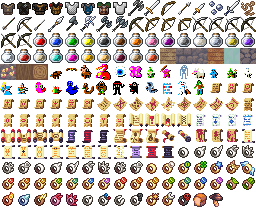
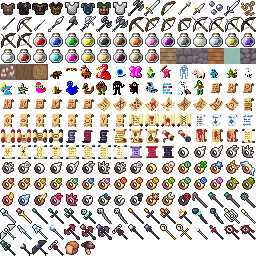
Wands are folded into staffs: every stick is a staff of a wood (rogue.Game loses SType and the metals, fixStick gives all the staff's 2d3, Name says staff), and the staffs draw their looks from the RPG Items 16x16 Pack 1 staves (40 sprites in assets/staffs with SOURCE.txt; mktiles.py writes assets/t

diff --git a/assets/tiles/mktiles.py b/assets/tiles/mktiles.py
@@ -4,12 +4,13 @@ rec files that say which cell each game id uses. The sheets hold only
 what the game draws; ids are the game's own names (a potion by its
 colour, a scroll or ring by its look, a wall by where it stands):
 
-  tiles8.png   items.rec     %rec: item    wands, gold, the Amulet (written whole)
+  tiles8.png   items.rec     %rec: item    gold, the Amulet (written whole)
   tiles16.png  gear.rec      %rec: gear    the armour: hand-written records, each naming its picture
                potions.rec   %rec: potion  Rogue's potion colours: hand-written, each an rgb tinting the potion sprite
                food.rec      %rec: food    the food ration (bread) and the slime-mold (assets/food)
                scrolls.rec   %rec: scroll  the scroll looks (assets/scrolls, BigWander's Art of Scrolls), a game's scroll kinds draw theirs from them
                rings.rec     %rec: ring    the ring looks (assets/rings), likewise
+               staffs.rec    %rec: staff   the staff looks (assets/staffs, RPG Items 16x16 Pack 1), likewise
                weapons.rec   %rec: weapon  the weapons and their pictures in use (%rec: frame): hand-written, each naming its picture
                textures.rec  %rec: block   the room's and the corridor's floor, wall and ceiling, light, trap, stairs, door frame
                monsters.rec  %rec: monster the 26 monsters (DynaHack, shadows stripped)
@@ -156,8 +157,7 @@ t8 = Sheet('tiles8.png', 8, 16)
 def item(rid, sprite, name=None):
     return (rid, name or rid, t8.add(sprite, rgba(os.path.join(ITEMS, sprite + '.png'))))
 items = []
-items += [item('staff', 'staff_01'), item('wand', 'staff_10'),
-          item('gold', 'valuable_09'), item('amulet of yendor', 'amulet_01', 'the Amulet of Yendor')]
+items += [item('gold', 'valuable_09'), item('amulet of yendor', 'amulet_01', 'the Amulet of Yendor')]
 t8.save()
 t8.rec(os.path.join(HERE, 'items.rec'), 'Items', 'item', items)
 
@@ -200,12 +200,13 @@ def looks(kind):
     d = os.path.join(ROOT, 'assets', kind + 's')
     return [(f'{kind} {i}', f'{kind} (look {i})', t16.add(f'{kind}:' + f, rgba(os.path.join(d, f))))
             for i, f in enumerate(sorted(f for f in os.listdir(d) if f.endswith('.png')), 1)]
-scrolls, rings = looks('scroll'), looks('ring')
+scrolls, rings, staffs = looks('scroll'), looks('ring'), looks('staff')
 FOOD = os.path.join(ROOT, 'assets', 'food')
 food = [(rid, rid, t16.add('f:' + f, rgba(os.path.join(FOOD, f + '.png')))) for rid, f in [('food ration', 'bread'), ('slime-mold', 'slime-mold')]]
 t16.save()
 t16.rec(os.path.join(HERE, 'food.rec'), 'Food', 'food', food)
 t16.rec(os.path.join(HERE, 'scrolls.rec'), 'Scroll looks', 'scroll', scrolls)
 t16.rec(os.path.join(HERE, 'rings.rec'), 'Ring looks', 'ring', rings)
+t16.rec(os.path.join(HERE, 'staffs.rec'), 'Staff looks', 'staff', staffs)
 t16.rec(os.path.join(HERE, 'textures.rec'), 'Block textures', 'block', blocks)
 t16.rec(os.path.join(HERE, 'monsters.rec'), 'Monsters', 'monster', monsters)

diff --git a/rogue/objects.go b/rogue/objects.go
@@ -177,7 +177,6 @@ type Game struct {
 	SNames  [MaxScrolls]string
 	RStones [MaxRings]string
 	SMade   [MaxSticks]string
-	SType   [MaxSticks]string // wand or staff
 	PKnow   [MaxPotions]bool
 	SKnow   [MaxScrolls]bool
 	RKnow   [MaxRings]bool
@@ -187,6 +186,7 @@ type Game struct {
 	PLook       [MaxPotions]int
 	SLook       [MaxScrolls]int
 	RLook       [MaxRings]int
+	StLook      [MaxSticks]int
 	NoFood      int
 	groupSerial int
 }
@@ -207,7 +207,6 @@ var (
 	woods = []string{"avocado wood", "balsa", "banyan", "birch", "cedar", "cherry", "cinnibar", "driftwood",
 		"ebony", "eucalyptus", "hemlock", "ironwood", "mahogany", "manzanita", "maple", "oak", "persimmon wood",
 		"redwood", "rosewood", "teak", "walnut", "zebra wood"}
-	metals = []string{"aluminium", "bone", "brass", "bronze", "copper", "iron", "lead", "pewter", "steel", "tin", "zinc"}
 )
 
 // NewGame rolls the random names for a game (init_colors, init_names,
@@ -245,23 +244,15 @@ func NewGame(rng *rand.Rand) *Game {
 		used[j] = true
 		g.RStones[i], g.RLook[i] = stones[j], looks[i]
 	}
-	usedW, usedM := map[int]bool{}, map[int]bool{}
+	usedW := map[int]bool{}
+	looks = rng.Perm(StaffLooks) // every staff kind its own look this game
 	for i := range g.SMade {
-		if Rnd(rng, 2) == 0 {
-			j := Rnd(rng, len(metals))
-			for usedM[j] && len(usedM) < len(metals) {
-				j = Rnd(rng, len(metals))
-			}
-			usedM[j] = true
-			g.SMade[i], g.SType[i] = metals[j], "wand"
-		} else {
-			j := Rnd(rng, len(woods))
-			for usedW[j] && len(usedW) < len(woods) {
-				j = Rnd(rng, len(woods))
-			}
-			usedW[j] = true
-			g.SMade[i], g.SType[i] = woods[j], "staff"
+		j := Rnd(rng, len(woods))
+		for usedW[j] {
+			j = Rnd(rng, len(woods))
 		}
+		usedW[j] = true
+		g.SMade[i], g.StLook[i] = woods[j], looks[i]
 	}
 	return g
 }
@@ -329,12 +320,10 @@ func (g *Game) NewThing() *Object {
 	return o
 }
 
-// fixStick sets a new wand's or staff's damage and charges (fix_stick).
+// fixStick sets a new staff's damage and charges (fix_stick; every
+// stick is a staff, wands are folded in).
 func (g *Game) fixStick(o *Object) {
-	o.Damage, o.HurlDmg = "1d1", "1d1"
-	if g.SType[o.Which] == "staff" {
-		o.Damage = "2d3"
-	}
+	o.Damage, o.HurlDmg = "2d3", "1d1"
 	o.Charges = 3 + Rnd(g.Rng, 5)
 	switch o.Which {
 	case 1: // striking
@@ -459,9 +448,9 @@ func (g *Game) Name(o *Object) string {
 		return "The Amulet of Yendor"
 	case Stick:
 		if g.WKnow[o.Which] {
-			return fmt.Sprintf("A %s of %s [%d charges](%s)", g.SType[o.Which], StickMagic[o.Which].Name, o.Charges, g.SMade[o.Which])
+			return fmt.Sprintf("A staff of %s [%d charges](%s)", StickMagic[o.Which].Name, o.Charges, g.SMade[o.Which])
 		}
-		return "A" + vowelstr(g.SMade[o.Which]) + " " + g.SMade[o.Which] + " " + g.SType[o.Which]
+		return "A" + vowelstr(g.SMade[o.Which]) + " " + g.SMade[o.Which] + " staff"
 	case Ring:
 		st := g.RStones[o.Which]
 		if g.RKnow[o.Which] {

diff --git a/hud.go b/hud.go
@@ -39,10 +39,10 @@ var helpLines = [][2]string{
 	{"Left mouse", "attack: the weapon's first pattern (sideways);"},
 	{"", "fire a launcher: hold to draw a bow (let go to shoot),"},
 	{"", "whirl the sling, shoot a spanned crossbow"},
-	{"Right mouse", "the weapon's second pattern (overhead); zap held wand;"},
+	{"Right mouse", "the weapon's second pattern (overhead); zap held staff;"},
 	{"", "use the held food, potion, scroll, ring or armor;"},
 	{"", "cancel a bow's draw or a sling's whirl"},
-	{"1-9, wheel", "hold a hotbar slot: a weapon is wielded, a wand held"},
+	{"1-9, wheel", "hold a hotbar slot: a weapon is wielded, a staff held"},
 	{"F", "the weapon's third attack pattern"},
 	{"T", "throw the wielded weapon"},
 	{"R", "span a crossbow (slow going)"},
@@ -89,7 +89,7 @@ var manualLines = []string{
 	"  the same kind. Scrolls are read, potions quaffed, by holding them and",
 	"  using the right mouse button.",
 	"",
-	"Wands and staves",
+	"Staves",
 	"  Zap with the right mouse button; each has a few charges.",
 	"",
 	"Monsters",
@@ -99,7 +99,7 @@ var manualLines = []string{
 	"Sleep and noise",
 	"  A sleeping monster floats Zs. A blow on it counts double, a dagger's",
 	"  five times. Noise wakes the sleepers near it: a fight, a shot, a",
-	"  throw, a wand, spanning a crossbow, and your steps (a sprint carries",
+	"  throw, a staff, spanning a crossbow, and your steps (a sprint carries",
 	"  far). Sneak (hold Ctrl) to pass them silently, slowly.",
 	"",
 	"Searching and traps",

diff --git a/main.go b/main.go
@@ -66,8 +66,8 @@ func main() {
 		wield   = flag.Int("wield", -1, "debug: start wielding this weapon kind")
 		swingAt = flag.Int("swing", -1, "debug: with -shot, swing (draw a wielded launcher) this many ticks before the shot")
 		looseAt = flag.Int("loose", -1, "debug: with -swing, let the launcher go this many ticks before the shot")
-		zapKind = flag.Int("zap", -1, "debug: with -shot, hold a wand of this kind and zap it -zap-at ticks before the shot")
-		zapAt   = flag.Int("zap-at", 10, "debug: ticks before -shot to zap the -zap wand")
+		zapKind = flag.Int("zap", -1, "debug: with -shot, hold a staff of this kind and zap it -zap-at ticks before the shot")
+		zapAt   = flag.Int("zap-at", 10, "debug: ticks before -shot to zap the -zap staff")
 		throwAt = flag.Int("throw", -1, "debug: with -shot, throw the wielded weapon (T) this many ticks before the shot")
 		mobs    = flag.String("mobs", "", "debug: with -shot, these monsters (letters) stand asleep in the hero's room, the camera on the first")
 		frail   = flag.Bool("frail", false, "debug: with -mobs, the first monster has 1 hit point")

diff --git a/rogue/kinds.go b/rogue/kinds.go
@@ -70,10 +70,10 @@ type ArmorKind struct {
 var (
 	Weapons []WeaponKind
 	Armors  []ArmorKind
-	// ScrollLooks and RingLooks are how many scroll and ring pictures
-	// there are to draw a game's kinds from (scrolls.rec's and rings.rec's
-	// records); SLook and RLook index them.
-	ScrollLooks, RingLooks = 1000, 1000
+	// ScrollLooks, RingLooks and StaffLooks are how many scroll, ring and
+	// staff pictures there are to draw a game's kinds from (scrolls.rec's,
+	// rings.rec's and staffs.rec's records); SLook, RLook and StLook index them.
+	ScrollLooks, RingLooks, StaffLooks = 1000, 1000, 1000
 )
 
 // LoadKinds reads dir's weapons.rec (with animations.rec, its attacks'
@@ -146,7 +146,7 @@ func LoadKinds(dir string) error {
 		file string
 		n    *int
 		need int
-	}{{"scrolls.rec", &ScrollLooks, MaxScrolls}, {"rings.rec", &RingLooks, MaxRings}} {
+	}{{"scrolls.rec", &ScrollLooks, MaxScrolls}, {"rings.rec", &RingLooks, MaxRings}, {"staffs.rec", &StaffLooks, MaxSticks}} {
 		recs, err = ReadRecs(filepath.Join(dir, l.file))
 		if err != nil {
 			return err

diff --git a/rogue/rules_test.go b/rogue/rules_test.go
@@ -28,15 +28,15 @@ func TestAttackScale(t *testing.T) {
 	}
 }
 
-// TestScrollLooks: every scroll and ring kind gets a look of its own
-// each game, drawn from the whole pool.
+// TestScrollLooks: every scroll, ring and staff kind gets a look of its
+// own each game, drawn from the whole pool.
 func TestScrollLooks(t *testing.T) {
-	ScrollLooks, RingLooks = 62, 49
+	ScrollLooks, RingLooks, StaffLooks = 62, 49, 40
 	for _, pool := range []struct {
 		name  string
 		n     int
 		looks func(*Game) []int
-	}{{"scroll", ScrollLooks, func(g *Game) []int { return g.SLook[:] }}, {"ring", RingLooks, func(g *Game) []int { return g.RLook[:] }}} {
+	}{{"scroll", ScrollLooks, func(g *Game) []int { return g.SLook[:] }}, {"ring", RingLooks, func(g *Game) []int { return g.RLook[:] }}, {"staff", StaffLooks, func(g *Game) []int { return g.StLook[:] }}} {
 		seen := map[int]bool{}
 		for seed := int64(1); seed <= 20; seed++ {
 			g := NewGame(rand.New(rand.NewSource(seed)))

diff --git a/tiles.go b/tiles.go
@@ -161,7 +161,7 @@ func (s *sheetTextures) TextureFrames(name string) ([]image.Image, int, error) {
 func loadSprites(dir string) ([]string, []image.Image, error) {
 	var names []string
 	var imgs []image.Image
-	for _, f := range []struct{ rec, prefix string }{{"items.rec", ""}, {"gear.rec", ""}, {"potions.rec", ""}, {"food.rec", ""}, {"scrolls.rec", ""}, {"rings.rec", ""}, {"weapons.rec", "w:"}, {"monsters.rec", "m:"}} {
+	for _, f := range []struct{ rec, prefix string }{{"items.rec", ""}, {"gear.rec", ""}, {"potions.rec", ""}, {"food.rec", ""}, {"scrolls.rec", ""}, {"rings.rec", ""}, {"staffs.rec", ""}, {"weapons.rec", "w:"}, {"monsters.rec", "m:"}} {
 		tiles, err := loadTiles(filepath.Join(dir, f.rec))
 		if err != nil {
 			return nil, nil, err

diff --git a/standins.go b/standins.go
@@ -99,7 +99,7 @@ var handSprites = map[string]bool{}
 
 // spriteFor is the rec id an object is drawn with: its name, or for
 // potions the colour, for scrolls and rings the look (scrolls.rec,
-// rings.rec) it has this game; wands are a staff or a wand.
+// rings.rec, staffs.rec) it has this game.
 func spriteFor(g *rogue.Game, o *rogue.Object) string {
 	switch o.Type {
 	case rogue.Weapon:
@@ -118,7 +118,7 @@ func spriteFor(g *rogue.Game, o *rogue.Object) string {
 		}
 		return "food ration"
 	case rogue.Stick:
-		return g.SType[o.Which]
+		return fmt.Sprintf("staff %d", g.StLook[o.Which]+1)
 	case rogue.Gold:
 		return "gold"
 	}

diff --git a/items.go b/items.go
@@ -754,7 +754,7 @@ func (g *game) lineOfFire(m *monster) bool {
 	return true
 }
 
-// zap uses a wand or staff (sticks.c do_zap). Light and striking act at
+// zap uses a staff (sticks.c do_zap; wands are folded into staffs). Light and striking act at
 // once, the bolts walk their squares (fireBolt), the rest fly to the
 // monster in front as a missile and act when it lands (wandHits).
 func (g *game) zap(o *rogue.Object) {
